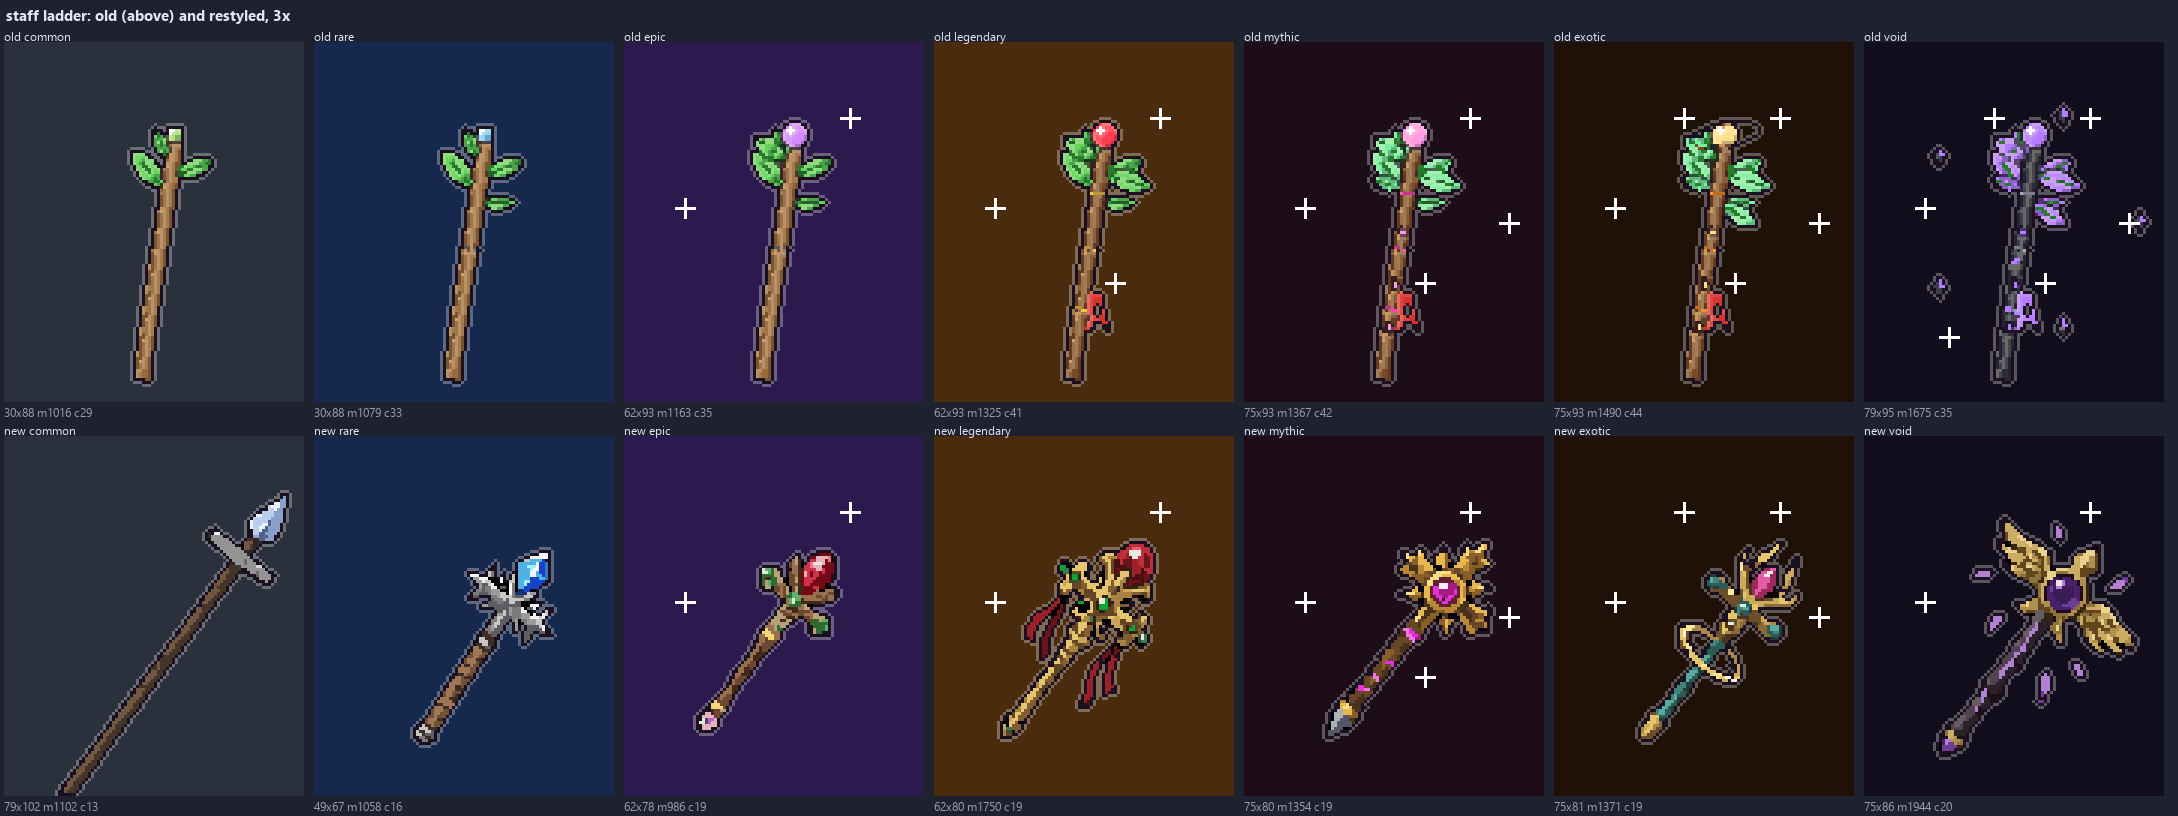
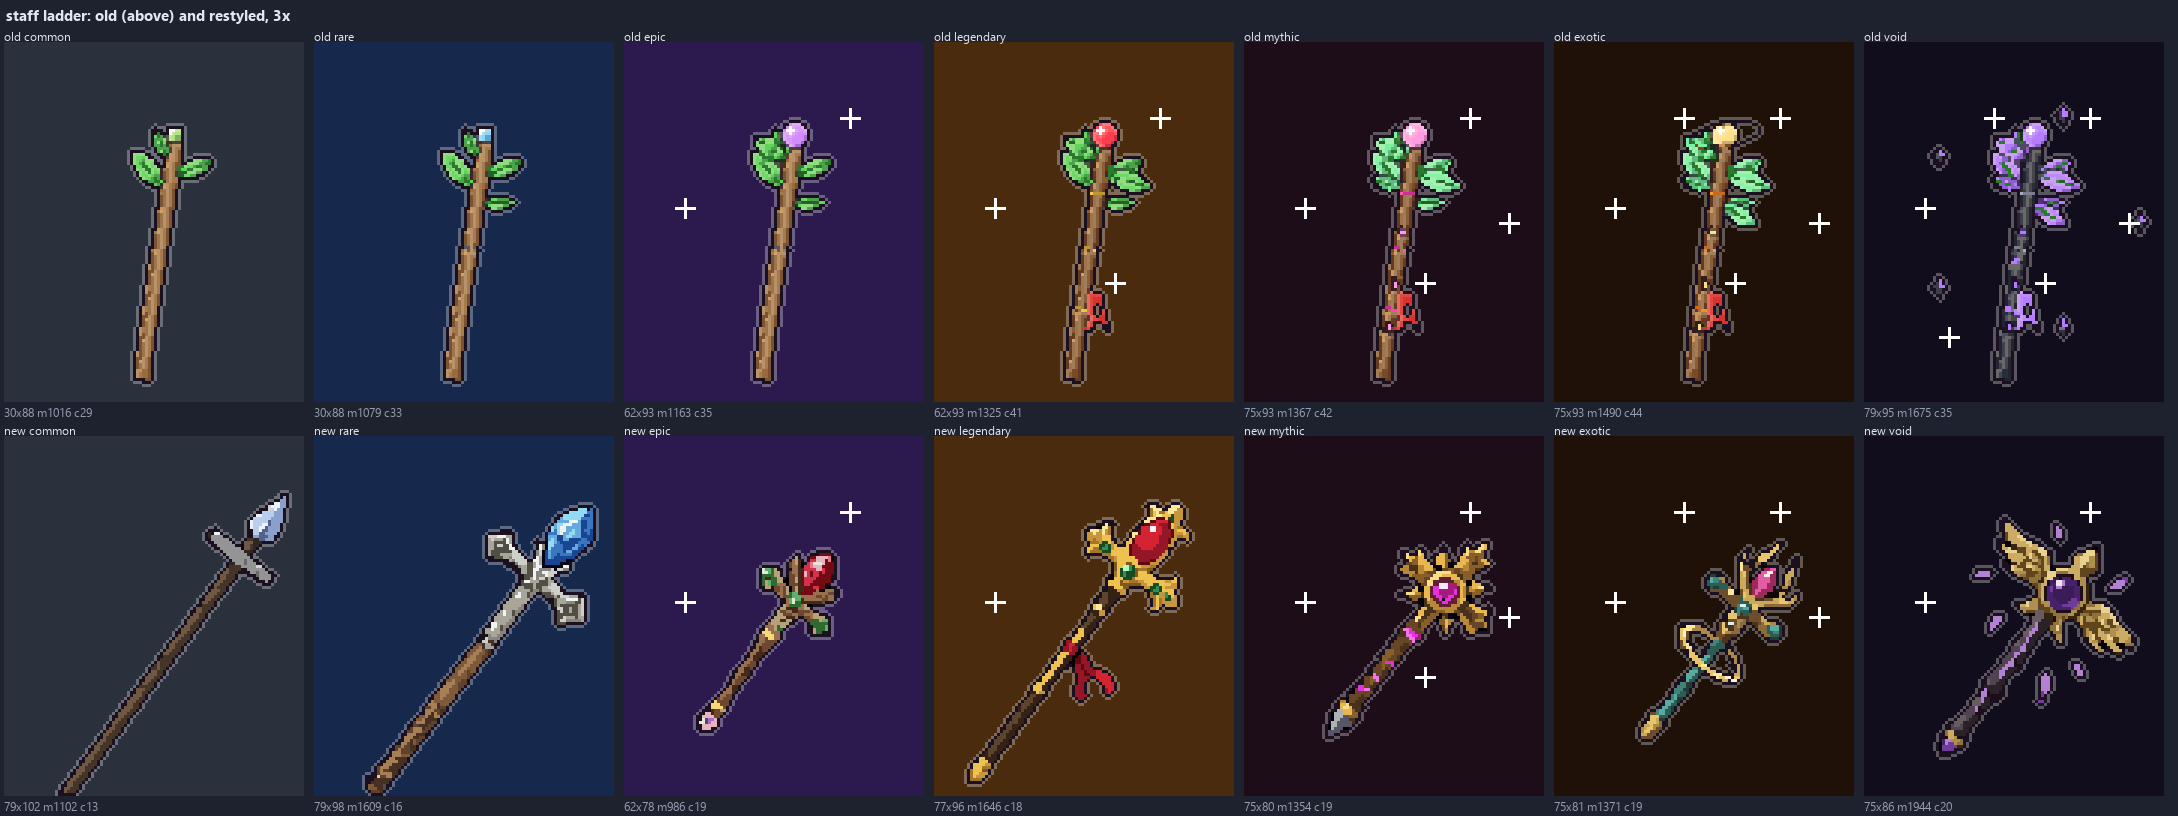
Art drafts: redo Soul Reaper, bows and staffs (lighter, slimmer, longer) with PixelLab pro

Changed region(s): [[0.4371, 0.6127, 0.562, 1.0], [0.1873, 0.6127, 0.281, 0.7966], [0.1561, 0.7966, 0.2185, 0.9804]]

diff --git a/design/pixel/concept-sheet-1-new/fit_blade.py b/design/pixel/concept-sheet-1-new/fit_blade.py
@@ -1,0 +1,62 @@
+"""Fits the blade path the live motion runs along (a cubic spine plus half-width) to a sprite.
+
+Reads a sprite's 'blade' pixels (a colour test per sprite), orders them along their principal curve,
+least-squares fits a cubic bezier (chord-length parameters, endpoints kept) and prints the four control
+points in item-box units (2 units per sprite pixel) and the base half-width, ready for makeBlade in
+art/vector/items.ts (EVOLUTION_GEO).
+
+Usage: py fit_blade.py <sprite.png> <soul_reaper|flameblade|dagger|hammer> [--plot out.png]
+"""
+from __future__ import annotations
+import sys
+import numpy as np
+from PIL import Image
+from scipy import ndimage
+from skimage import measure, morphology
+
+def blade_mask(a: np.ndarray, kind: str) -> np.ndarray:
+    rgb = a[..., :3].astype(int); op = a[..., 3] > 0
+    r, g, b = rgb[..., 0], rgb[..., 1], rgb[..., 2]
+    lum = (0.3 * r + 0.59 * g + 0.11 * b)
+    white = (rgb == 255).all(-1)
+    if kind == "soul_reaper":   # pale steel blade: light, slightly blue/grey
+        return op & ~white & (lum > 150) & (b >= r - 5)
+    if kind == "flameblade":    # the flame blade: warm, bright
+        return op & (r > 200) & (g > 90) & (b < 140)
+    if kind == "dagger":        # violet blades
+        return op & (b > 150) & (r > 100) & (g < 120)
+    return op & (lum > 90)      # hammer: bronze head/handle
+
+def main() -> None:
+    a = np.array(Image.open(sys.argv[1]).convert("RGBA"))
+    m = blade_mask(a, sys.argv[2])
+    m = morphology.remove_small_objects(m, 12)
+    lab = measure.label(m, connectivity=2)
+    if lab.max() == 0: print("no blade pixels"); return
+    for k, region in enumerate(sorted(measure.regionprops(lab), key=lambda r: -r.area)[: 2 if sys.argv[2] == "dagger" else 1]):
+        mm = lab == region.label
+        sk = morphology.skeletonize(mm)
+        ys, xs = np.nonzero(sk)
+        pts = np.column_stack([xs, ys]).astype(float)
+        # order along the curve: start at one end of the skeleton (farthest from centroid), walk nearest-neighbour
+        c = pts.mean(0); start = pts[np.argmax(((pts - c) ** 2).sum(1))]
+        order = [start]; left = list(map(tuple, pts)); left.remove(tuple(start))
+        while left:
+            d = [((np.array(p) - order[-1]) ** 2).sum() for p in left]
+            j = int(np.argmin(d))
+            if d[j] > 36: break
+            order.append(np.array(left.pop(j)))
+        P = np.array(order)
+        if len(P) < 6: print("skeleton too short"); continue
+        t = np.concatenate([[0], np.cumsum(np.hypot(*np.diff(P, axis=0).T))]); t /= t[-1]
+        B = np.column_stack([(1 - t) ** 3, 3 * t * (1 - t) ** 2, 3 * t ** 2 * (1 - t), t ** 3])
+        p0, p3 = P[0], P[-1]
+        rhs = P - np.outer(B[:, 0], p0) - np.outer(B[:, 3], p3)
+        sol, *_ = np.linalg.lstsq(B[:, 1:3], rhs, rcond=None)
+        ctrl = np.vstack([p0, sol[0], sol[1], p3])
+        dist = ndimage.distance_transform_edt(mm)
+        w0 = float(np.percentile(dist[sk], 85))
+        print(f"blade {k}: spine px {np.round(ctrl).astype(int).tolist()}  -> item units {np.round(ctrl * 2).astype(int).tolist()}  half-width px {w0:.1f} (units {2*w0:.0f}) len {len(P)}")
+
+if __name__ == "__main__":
+    main()

diff --git a/design/pixel/concept-sheet-1-new/restyled/numbers.md b/design/pixel/concept-sheet-1-new/restyled/numbers.md
@@ -29,9 +29,9 @@
 | old exotic | 75x93 | 1490 | 44 | 4.4 |
 | old void | 79x95 | 1675 | 35 | 3.8 |
 | new common | 79x102 | 1102 | 13 | 0.0 |
-| new rare | 49x67 | 1058 | 16 | 0.0 |
+| new rare | 79x98 | 1609 | 16 | 0.1 |
 | new epic | 62x78 | 986 | 19 | 0.0 |
-| new legendary | 62x80 | 1750 | 19 | 0.1 |
+| new legendary | 77x96 | 1646 | 18 | 0.0 |
 | new mythic | 75x80 | 1354 | 19 | 0.1 |
 | new exotic | 75x81 | 1371 | 19 | 0.1 |
 | new void | 75x86 | 1944 | 20 | 0.0 |
